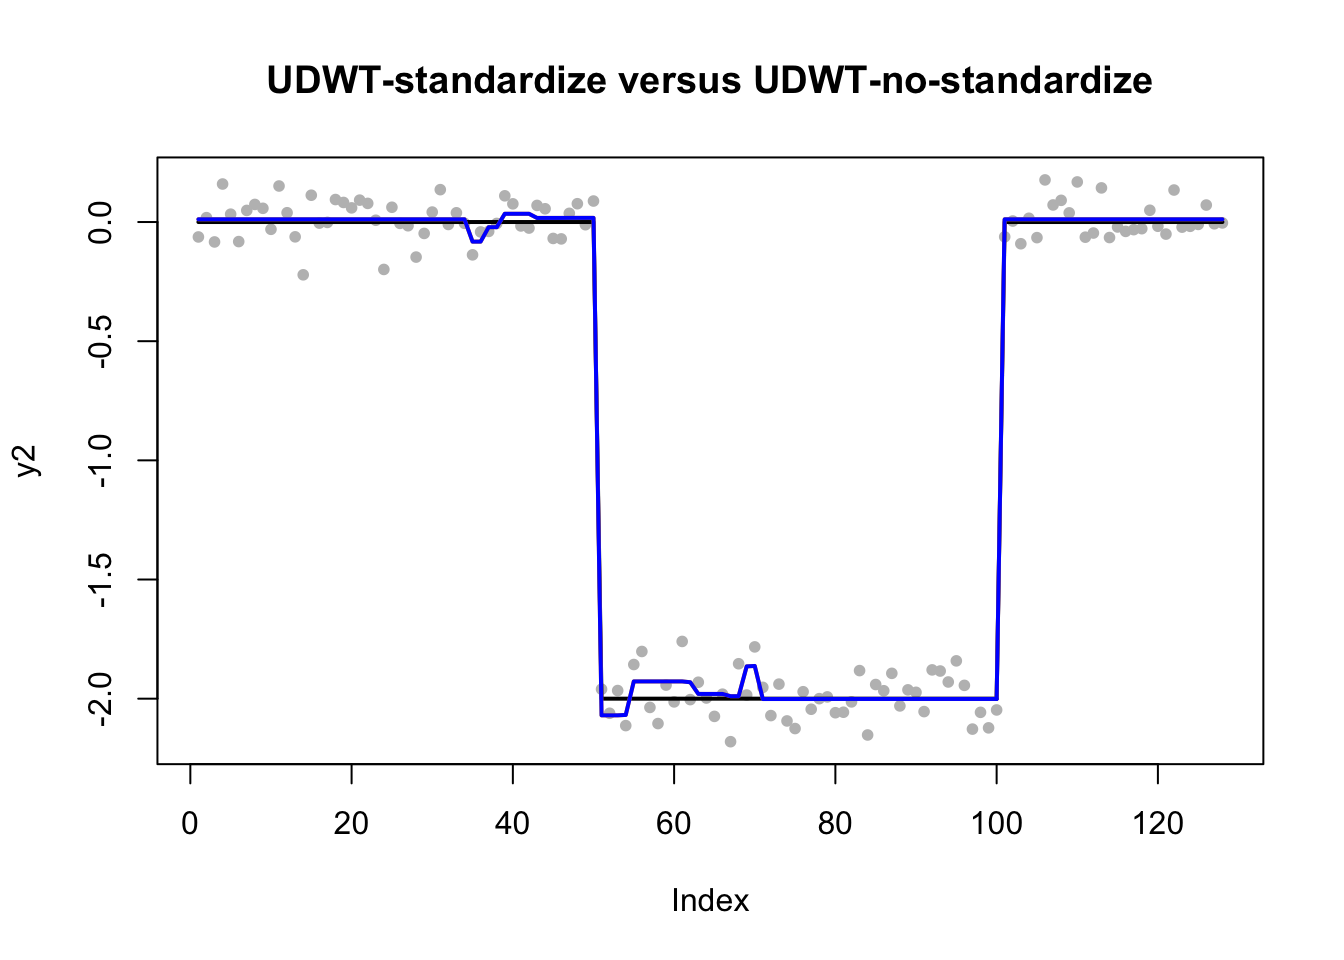
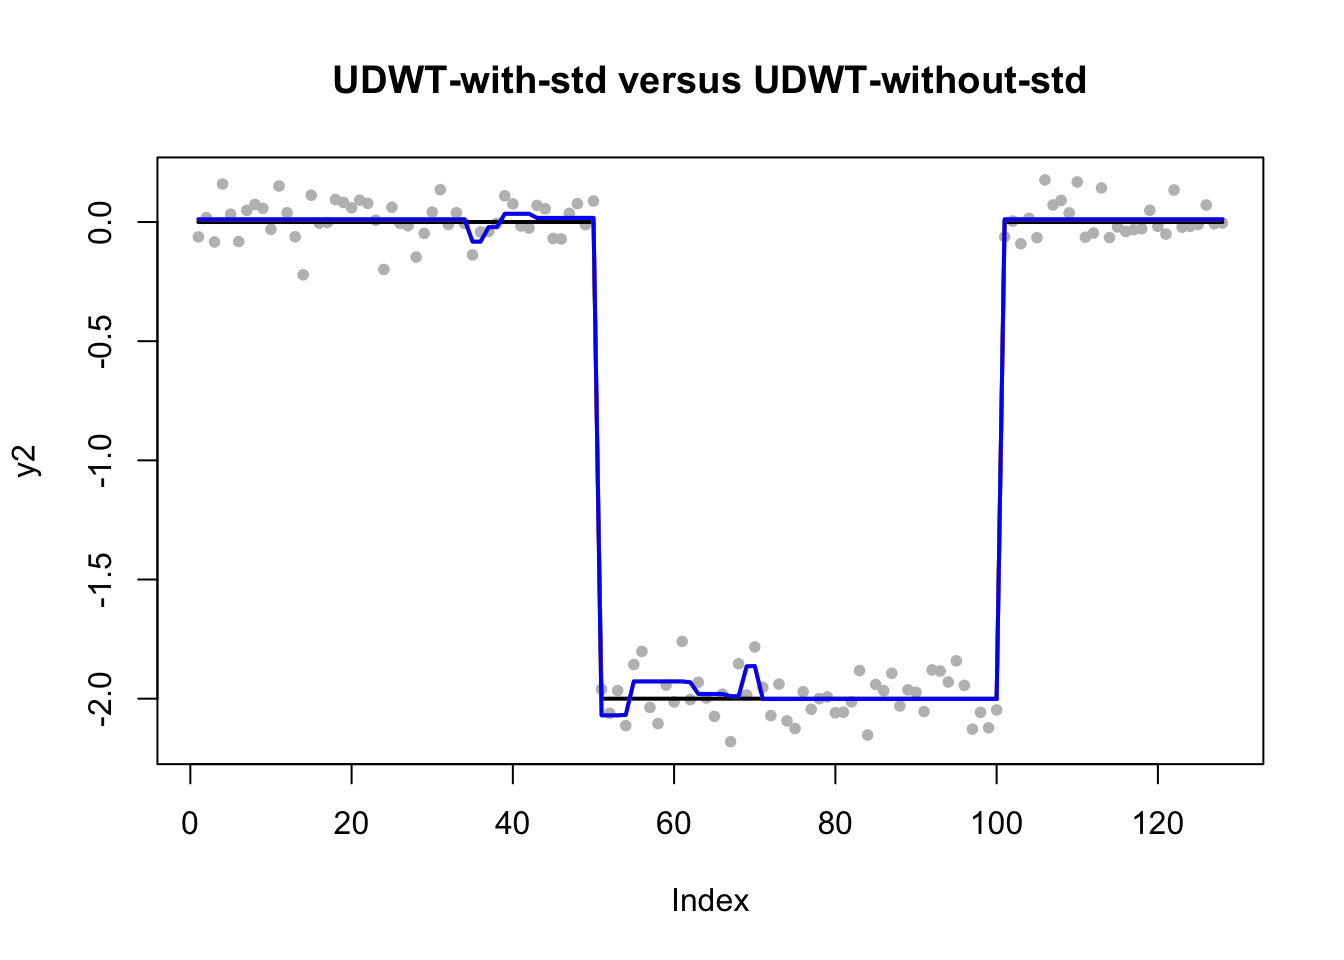
Build site.

Changed region(s): [[0.1875, 0.0625, 0.4688, 0.0938], [0.6562, 0.0625, 0.875, 0.0938]]

diff --git a/docs/UDWT2.html b/docs/UDWT2.html
@@ -443,7 +443,7 @@ div.section {
 </details>
 </li>
 <li>
-<p><details> <summary> <strong style="color:blue;">✔</strong> <strong>Repository version:</strong> <a href="https://github.com/KaiqianZhang/susie-np/tree/63a16cae00c8fdb45008cebf4c08031fda3ae4ea" target="_blank">63a16ca</a> </summary></p>
+<p><details> <summary> <strong style="color:blue;">✔</strong> <strong>Repository version:</strong> <a href="https://github.com/KaiqianZhang/susie-np/tree/7bf2c7c7828846cb4a9669b98192366a7b59e134" target="_blank">7bf2c7c</a> </summary></p>
 Great! You are using Git for version control. Tracking code development and connecting the code version to the results is critical for reproducibility. The version displayed above was the version of the Git repository at the time these results were generated. <br><br> Note that you need to be careful to ensure that all relevant files for the analysis have been committed to Git prior to generating the results (you can use <code>wflow_publish</code> or <code>wflow_git_commit</code>). workflowr only checks the R Markdown file, but you know if there are other scripts or data files that it depends on. Below is the status of the Git repository when the results were generated:
 <pre><code>
 Ignored files:
@@ -482,6 +482,40 @@ Message
 </tr>
 </thead>
 <tbody>
+<tr>
+<td style="text-align:left;">
+Rmd
+</td>
+<td style="text-align:left;">
+<a href="https://github.com/KaiqianZhang/susie-np/blob/7bf2c7c7828846cb4a9669b98192366a7b59e134/analysis/UDWT2.Rmd" target="_blank">7bf2c7c</a>
+</td>
+<td style="text-align:left;">
+kaiqian
+</td>
+<td style="text-align:left;">
+2019-01-18
+</td>
+<td style="text-align:left;">
+add UDWT2 and change index
+</td>
+</tr>
+<tr>
+<td style="text-align:left;">
+html
+</td>
+<td style="text-align:left;">
+<a href="https://cdn.rawgit.com/KaiqianZhang/susie-np/3ae18cc85a1c8bbc9fe02608ba106ccc6728de9a/docs/UDWT2.html" target="_blank">3ae18cc</a>
+</td>
+<td style="text-align:left;">
+kaiqian
+</td>
+<td style="text-align:left;">
+2019-01-18
+</td>
+<td style="text-align:left;">
+Build site.
+</td>
+</tr>
 <tr>
 <td style="text-align:left;">
 Rmd
@@ -540,12 +574,72 @@ lines(beta2,col=&quot;black&quot;,lwd=2)
 lines(predict(fit_susie_DWT_prior), col=&#39;purple&#39;, lwd=2)
 lines(predict(fit_susie_UDWT_prior), col=&#39;orange&#39;, lwd=2)</code></pre>
 <p><img src="figure/UDWT2.Rmd/unnamed-chunk-5-1.png" width="672" style="display: block; margin: auto;" /></p>
+<details> <summary><em>Expand here to see past versions of unnamed-chunk-5-1.png:</em></summary>
+<table style="border-collapse:separate; border-spacing:5px;">
+<thead>
+<tr>
+<th style="text-align:left;">
+Version
+</th>
+<th style="text-align:left;">
+Author
+</th>
+<th style="text-align:left;">
+Date
+</th>
+</tr>
+</thead>
+<tbody>
+<tr>
+<td style="text-align:left;">
+<a href="https://github.com/KaiqianZhang/susie-np/blob/3ae18cc85a1c8bbc9fe02608ba106ccc6728de9a/docs/figure/UDWT2.Rmd/unnamed-chunk-5-1.png" target="_blank">3ae18cc</a>
+</td>
+<td style="text-align:left;">
+kaiqian
+</td>
+<td style="text-align:left;">
+2019-01-18
+</td>
+</tr>
+</tbody>
+</table>
+<p></details></p>
 <p>As suggested, we also apply UDWT bases with and without standardization. The blue line is <code>UDWT without standardization</code> and the orange line is <code>UDWT with standardization</code>. We oberve that the blue line is on top of the orange one. So there is no difference in the UDWT case with standardization or not.</p>
-<pre class="r"><code>plot(y2,pch=20, col=&quot;grey&quot;, main=&quot;UDWT-standardize versus UDWT-no-standardize&quot;)
+<pre class="r"><code>plot(y2,pch=20, col=&quot;grey&quot;, main=&quot;UDWT-with-std versus UDWT-without-std&quot;)
 lines(beta2,col=&quot;black&quot;,lwd=2)
 lines(predict(fit_susie_UDWT_prior), col=&#39;orange&#39;, lwd=2)
 lines(predict(fit_susie_UDWT_prior_nostd), col=&#39;blue&#39;, lwd=2)</code></pre>
 <p><img src="figure/UDWT2.Rmd/unnamed-chunk-6-1.png" width="672" style="display: block; margin: auto;" /></p>
+<details> <summary><em>Expand here to see past versions of unnamed-chunk-6-1.png:</em></summary>
+<table style="border-collapse:separate; border-spacing:5px;">
+<thead>
+<tr>
+<th style="text-align:left;">
+Version
+</th>
+<th style="text-align:left;">
+Author
+</th>
+<th style="text-align:left;">
+Date
+</th>
+</tr>
+</thead>
+<tbody>
+<tr>
+<td style="text-align:left;">
+<a href="https://github.com/KaiqianZhang/susie-np/blob/3ae18cc85a1c8bbc9fe02608ba106ccc6728de9a/docs/figure/UDWT2.Rmd/unnamed-chunk-6-1.png" target="_blank">3ae18cc</a>
+</td>
+<td style="text-align:left;">
+kaiqian
+</td>
+<td style="text-align:left;">
+2019-01-18
+</td>
+</tr>
+</tbody>
+</table>
+<p></details></p>
 </div>
 <div id="session-information" class="section level2">
 <h2>Session information</h2>

diff --git a/docs/index.html b/docs/index.html
@@ -327,7 +327,7 @@ div.section {
 </details>
 </li>
 <li>
-<p><details> <summary> <strong style="color:blue;">✔</strong> <strong>Repository version:</strong> <a href="https://github.com/KaiqianZhang/susie-np/tree/63a16cae00c8fdb45008cebf4c08031fda3ae4ea" target="_blank">63a16ca</a> </summary></p>
+<p><details> <summary> <strong style="color:blue;">✔</strong> <strong>Repository version:</strong> <a href="https://github.com/KaiqianZhang/susie-np/tree/7bf2c7c7828846cb4a9669b98192366a7b59e134" target="_blank">7bf2c7c</a> </summary></p>
 Great! You are using Git for version control. Tracking code development and connecting the code version to the results is critical for reproducibility. The version displayed above was the version of the Git repository at the time these results were generated. <br><br> Note that you need to be careful to ensure that all relevant files for the analysis have been committed to Git prior to generating the results (you can use <code>wflow_publish</code> or <code>wflow_git_commit</code>). workflowr only checks the R Markdown file, but you know if there are other scripts or data files that it depends on. Below is the status of the Git repository when the results were generated:
 <pre><code>
 Ignored files:
@@ -366,6 +366,23 @@ Message
 </tr>
 </thead>
 <tbody>
+<tr>
+<td style="text-align:left;">
+html
+</td>
+<td style="text-align:left;">
+<a href="https://cdn.rawgit.com/KaiqianZhang/susie-np/3ae18cc85a1c8bbc9fe02608ba106ccc6728de9a/docs/index.html" target="_blank">3ae18cc</a>
+</td>
+<td style="text-align:left;">
+kaiqian
+</td>
+<td style="text-align:left;">
+2019-01-18
+</td>
+<td style="text-align:left;">
+Build site.
+</td>
+</tr>
 <tr>
 <td style="text-align:left;">
 html
